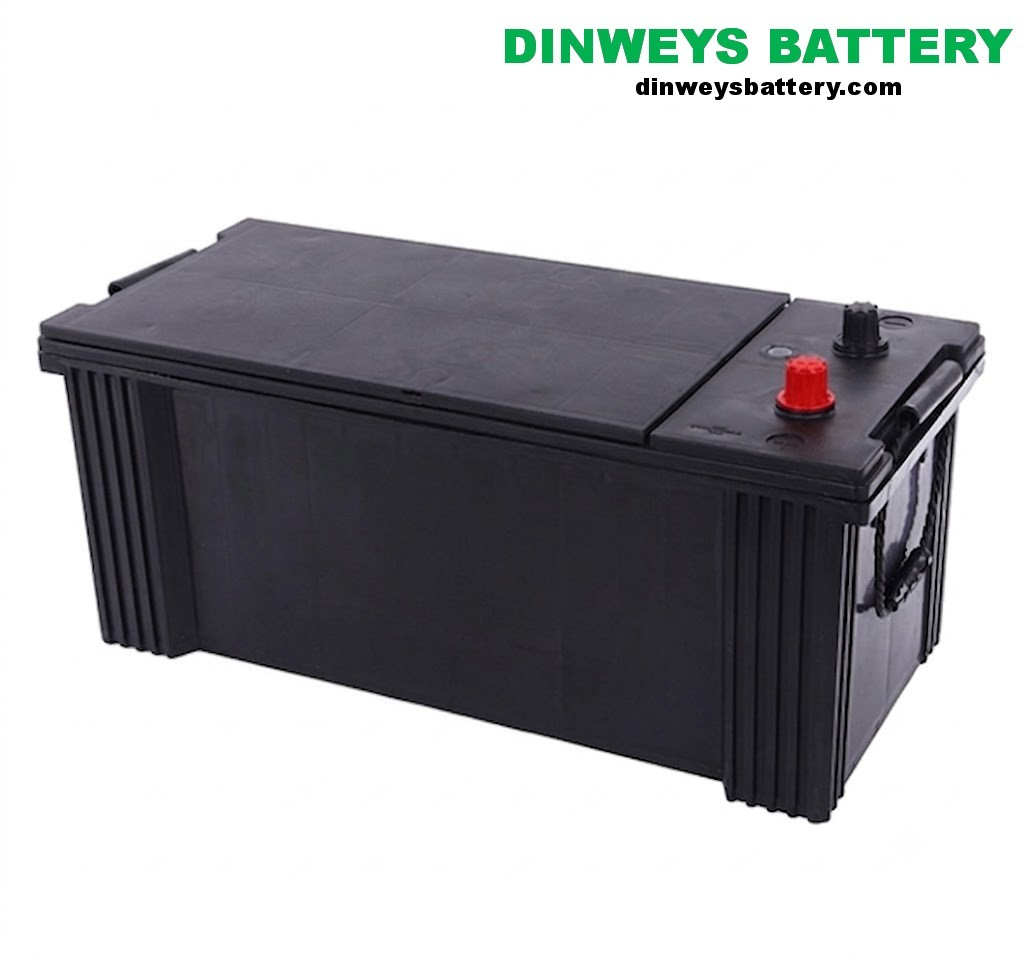
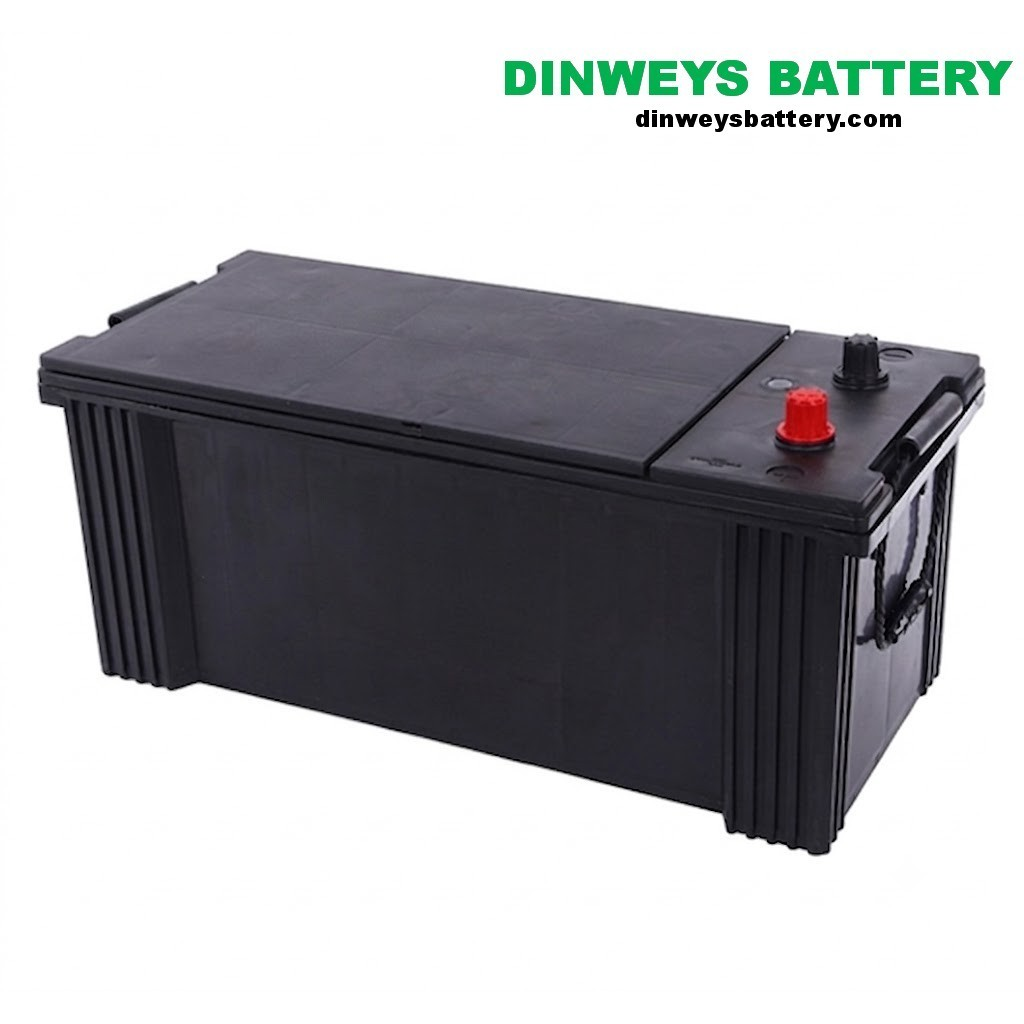
fix(ui): hero→factory image, uniform product images, OEM factory branding in title/header

diff --git a/src/styles/global.css b/src/styles/global.css
@@ -352,15 +352,15 @@ a:focus-visible, button:focus-visible, select:focus-visible, input:focus-visible
 .hero-image {
   display: block;
   width: 100%;
-  max-width: 430px;
+  max-width: 560px;
   margin: 0 auto;
-  aspect-ratio: 1 / 1;
+  aspect-ratio: 16 / 10;
   object-fit: cover;
   background: #fff;
   border: 1px solid rgba(255, 255, 255, 0.16);
   border-radius: var(--radius-lg);
   box-shadow: var(--shadow-md);
-  transform: rotate(-1deg);
+  transform: rotate(-0.5deg);
 }
 
 /* Cards */
